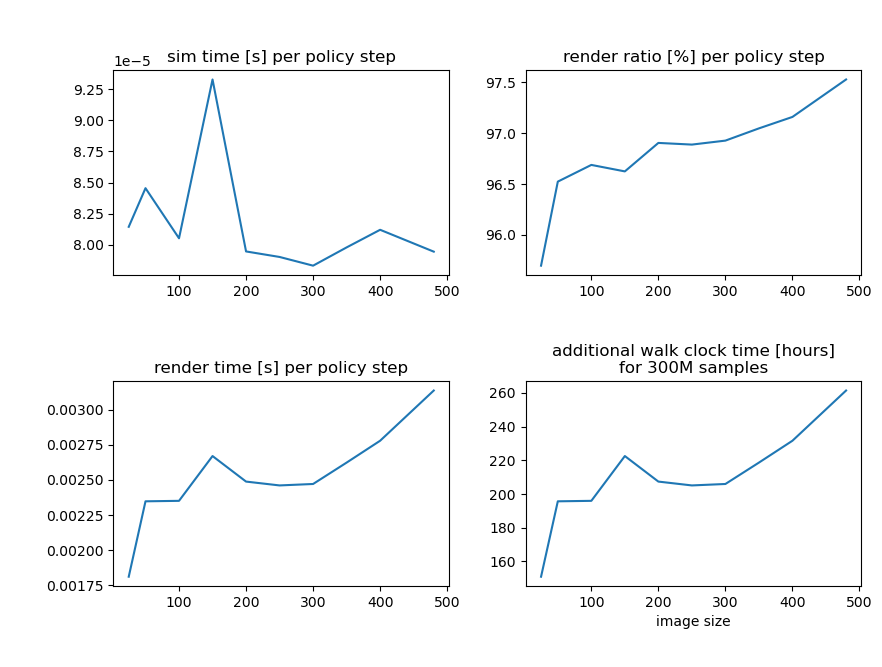
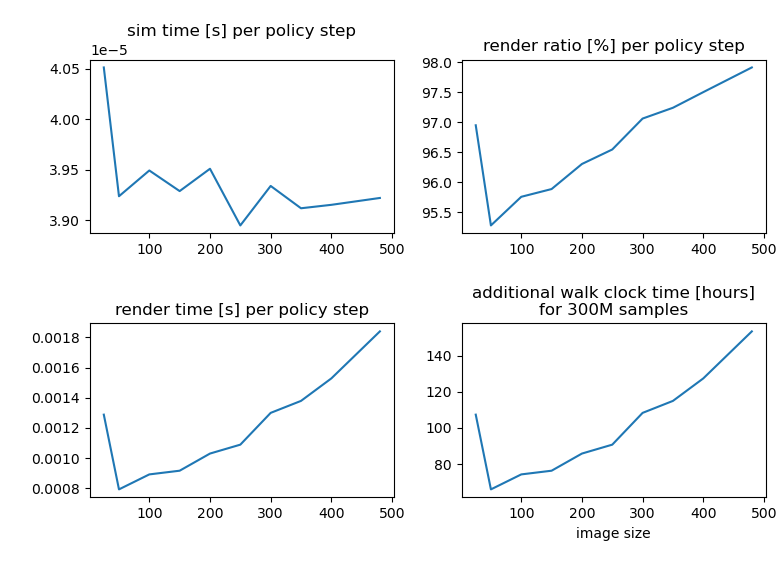
add into sim

diff --git a/testing/test_offscreen_render.py b/testing/test_offscreen_render.py
@@ -19,6 +19,7 @@ def test_offscreen_rendering():
 		assert os.getenv('MUJOCO_GL') == gl_option, f"GL option is {os.getenv('MUJOCO_GL')} but want to load {gl_option}."
 		print(os.getenv('PYOPENGL_PLATFORM'))
 
+	camera_name = "forward-chest-realsense-d435/depth/image-rect"
 	size = [25, 50, 100, 150, 200, 250, 300, 350, 400, 480]
 	# size = [400]
 	sim_time_avg_list = []
@@ -28,14 +29,12 @@ def test_offscreen_rendering():
 		# Init mujoc sim and optional viewer to verify
 		sim = MjCassieSim()
 		sim.reset()
-		camera_name = "forward-chest-realsense-d435/depth/image-rect"
+		sim.geom_generator._create_geom('box0', *[1, 0, 0], rise=0.5, length=0.3, width=1)
 		# sim.viewer_init(camera_id=camera_name, height=500, width=500)
 		# render_state = sim.viewer_render()
 
 		# Init renderer that reads the same model/data
-		renderer = mujoco.Renderer(sim.model, height=s, width=s)
-		print("Verify the Gl context object, ", renderer._gl_context)
-		renderer.enable_depth_rendering()
+		sim.init_offscreen_renderer(width=s, height=s)
 
 		time_raw_sim_list = []
 		time_render_depth = []
@@ -49,11 +48,10 @@ def test_offscreen_rendering():
 			# render_state = sim.viewer_render()
 			# Render offscreen
 			start_t = time.time()
-			renderer.update_scene(sim.data, camera=camera_name)
-			img = renderer.render()
+			depth = sim.get_depth_image(camera_name)
 			time_render_depth.append(time.time() - start_t)
-			frames.append(img)
-
+			frames.append(depth.astype(np.uint8))
+   
 			if sim.get_base_position()[2] < 0.5:
 				mean_time_sim = np.mean(np.array(time_raw_sim_list))
 				mean_time_render = np.mean(np.array(time_render_depth))
@@ -61,7 +59,7 @@ def test_offscreen_rendering():
 				render_time_avg_list.append(mean_time_render)
 				time_render_ratio.append(100*mean_time_render / (mean_time_sim+mean_time_render))
 				break
-	mediapy.write_video("test.mp4", frames, fps=30)
+	mediapy.write_video("test.mp4", frames, fps=50)
 	fig, ((ax1, ax3), (ax2, ax4)) = plt.subplots(2, 2)
 	ax1.plot(size, sim_time_avg_list)
 	ax1.set_title('sim time [s] per policy step')

diff --git a/sim/mujoco_sim.py b/sim/mujoco_sim.py
@@ -161,6 +161,37 @@ class MujocoSim(GenericSim):
             raise RuntimeError(f"{FAIL}Error: Viewer not alive, can not check paused status. Check "
                 f"that viewer has not been destroyed.{ENDC}")
 
+    def init_offscreen_renderer(self, height: int, width: int):
+        """Initialized renderer class for offscreen rendering. Need to change os environ before
+        importing all librairies (including mujoco). This does not work alongside with MujocoViewer.
+        
+        import os
+        gl_option = 'egl' or 'glx' or 'osmesa'
+        os.environ['MUJOCO_GL']=gl_option
+
+        OSMesa has problems see, https://github.com/deepmind/mujoco/issues/700
+        Args: height and width of image size. Once set, cannot change.
+        """
+        self.renderer = mj.Renderer(self.model, height=height, width=width)
+        # print("Verify the Gl context object, ", self.renderer._gl_context)
+
+    def get_depth_image(self, camera_name: str):
+        """ Get depth image given camera name. To use depth offscreen rendering, first call this init_offscreen_renderer() at reset(). And then call this function.
+        """
+        if camera_name is None:
+            raise RuntimeError("Specify a camera name.")
+        self.renderer.enable_depth_rendering()
+        self.renderer.update_scene(self.data, camera=camera_name)
+        depth = self.renderer.render()
+        # Perform in-place operations with depth values
+        # Shift nearest values to the origin.
+        depth -= depth.min()
+        # Scale by 2 mean distances of near rays.
+        depth /= (2*depth[depth <= 1].mean() + 1e-4)
+        # Scale to [0, 255]
+        depth = 255*np.clip(depth, 0, 1)
+        return depth
+
     """The followings are getter/setter functions to unify with naming with GenericSim()
     """
     def get_joint_position(self):

diff --git a/test.py b/test.py
@@ -10,6 +10,7 @@ if __name__ == "__main__":
     parser.add_argument("--clock", default=False, action='store_true')
     parser.add_argument("--nn", default=False, action='store_true')
     parser.add_argument("--render", default=False, action='store_true')
+    parser.add_argument("--all", default=False, action='store_true')
     args = parser.parse_args()
 
     if args.all:
